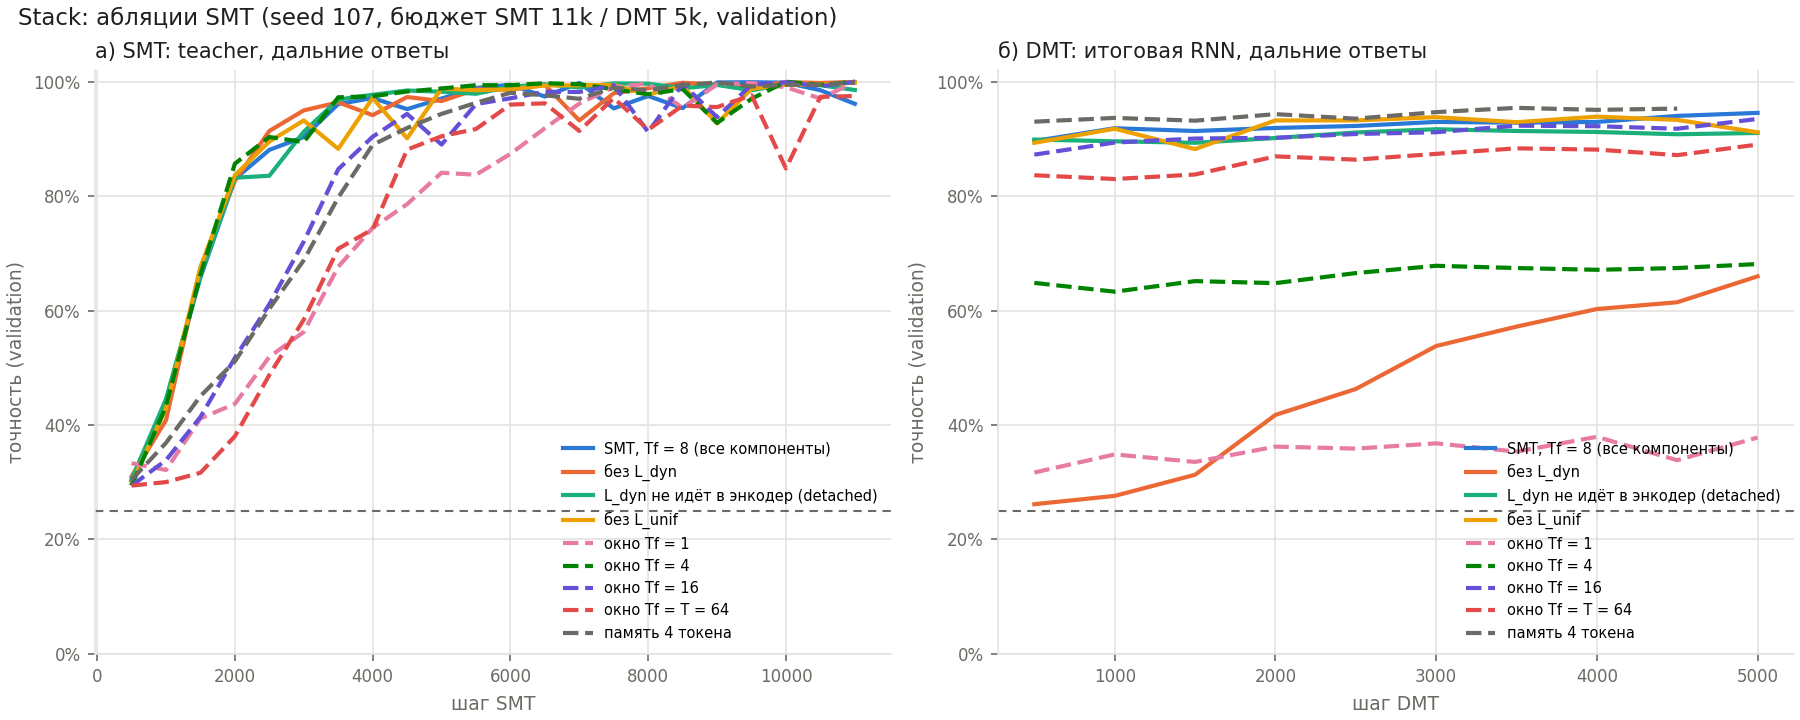
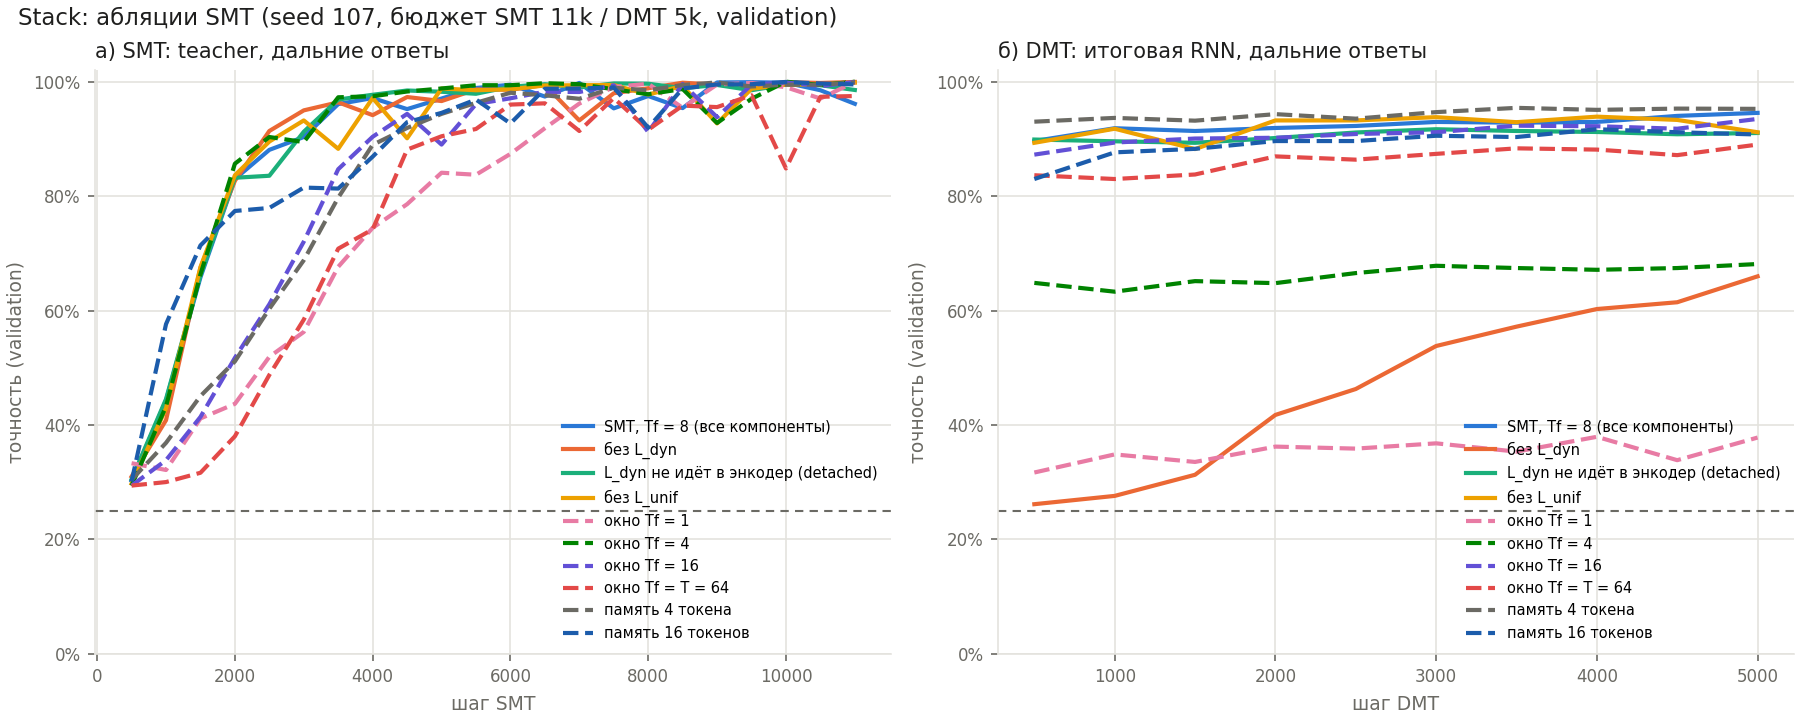
Stack SMT ablations complete (incl. mem16) + MQAR bottleneck test at T=64

diff --git a/outputs_ablation/README.md b/outputs_ablation/README.md
@@ -15,7 +15,8 @@
 | окно Tf = 4 | 11000 | 100.0% | 2000 | 3500 | 59.2% | 43.9% | 68.1% | 5000 |
 | окно Tf = 16 | 11000 | 100.0% | 3500 | 5500 | 79.0% | 38.7% | 93.5% | 5000 |
 | окно Tf = T = 64 | 11000 | 97.6% | 4500 | 6000 | 69.1% | — | 89.0% | 5000 |
-| память 4 токена | 11000 | 99.9% | 4000 | 5500 | 81.1% | 45.4% | 95.3% | 4500 |
+| память 4 токена | 11000 | 99.9% | 4000 | 5500 | 81.1% | 45.4% | 95.3% | 5000 |
+| память 16 токенов | 11000 | 100.0% | 3000 | 5500 | 69.5% | 42.5% | 91.7% | 5000 |
 
 ## MQAR: длина примера (вся последовательность в окне энкодера-декодера, Tc = Tf = T)
 | T | pairs | model | long_acc | long_cand_acc | all_cand_acc | steps |
